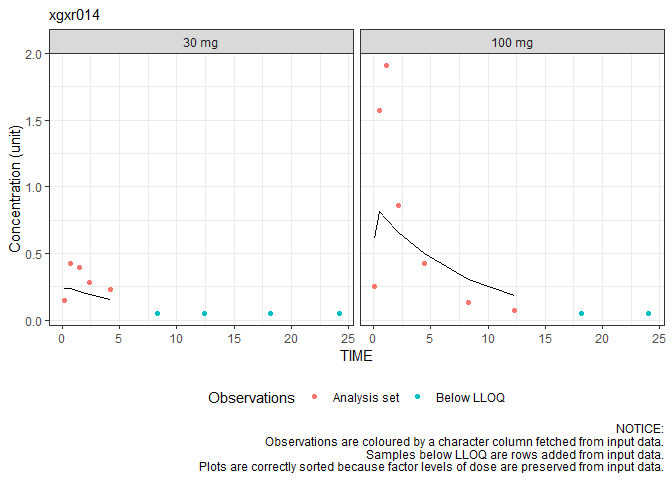
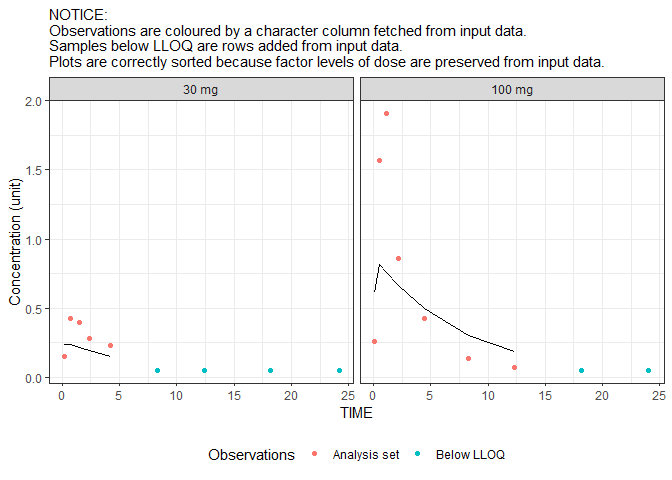
mostly spelling errors

diff --git a/vignettes/NMdata-cheat.html b/vignettes/NMdata-cheat.html
@@ -394,11 +394,11 @@ pre code {
[1 lines of base64/hex data omitted]
 <div class="column-container" style="display: flex;">
 <div class="column-container__column">
-<p>Built 2022-04-09 using NMdata 0.0.11.907.</p>
+<p>Built 2022-04-09 using NMdata 0.0.11.908.</p>
 <p>Please make sure to see latest version available <a href="https://philipdelff.github.io/NMdata/">here</a>.</p>
 <p>This cheat sheet is intented to provide an overview and remind of
 command names. Please refer to other vignettes for more details on
-specefic topics and individual manual pages for details on the
+specific topics and individual manual pages for details on the
 functions.</p>
 <p>The order of the contents loosely follows a workflow example (except
 for the configuration part). The steps can be applied in any order and
@@ -493,7 +493,7 @@ can be read by NONMEM are prioritized. Row identifier and standard
 column names have special priorities.</p>
 <p><code>NMcheckData</code> - Extensive data checks for NONMEM
 compatibility and common issues. Should be run before saving data but
-see the “Debuging…” section for example on output.</p>
+see the “Debugging…” section for example on output.</p>
 </div>
 </div>
 <div class="column-container__column">
@@ -554,7 +554,7 @@ names(res.debug)
 ## Meta data on input data file:
 res.debug$tables
 #&gt;    source       name nrow ncol nid filetype          file.mtime
-#&gt; 1:  input pkdata.csv 1502   23 150     text 2022-04-09 17:16:39
+#&gt; 1:  input pkdata.csv 1502   23 150     text 2022-04-09 20:14:26
 #&gt;                            file has.col.row has.col.id
 #&gt; 1: nonmem/../derived/pkdata.csv        TRUE       TRUE</code></pre>
 <p>In this model we forgot to update the control stream INPUT section
@@ -684,7 +684,7 @@ a complete list of data columns and their origin.</p>
 #&gt; [1] &quot;NMdata-cheat.Rmd&quot;
 #&gt; 
 #&gt; $CreationTime
-#&gt; [1] &quot;2022-04-09 17:16:39 EDT&quot;
+#&gt; [1] &quot;2022-04-09 20:14:26 EDT&quot;
 #&gt; 
 #&gt; $writtenTo
 #&gt; [1] &quot;derived/pkdata.rds&quot;

diff --git a/NEWS.md b/NEWS.md
@@ -122,7 +122,7 @@
 
 * flagsAssign has got a few updates related to separate handling of
   different types of events. Often, this will be used to assign flags
-  to observations, doses etc. separately. You can easily speficy a
+  to observations, doses etc. separately. You can easily specify a
   subset of data to run flagsAssign on, and it will by default check
   for whether values of EVID are unique. This is similar to what
   flagsCount does.
@@ -167,7 +167,7 @@ that tests pass after the release of data.table v1.14.2.
   write meta data. Meta data is stored as an attribute to the data
   object (attributes(data)$NMdata).
 
-* Translation table includes a column ranking the match betwen input
+* Translation table includes a column ranking the match between input
   data file contents and $INPUT. OK: names match, diff: names do not
   match, off: diff and name is found elsewhere.
 
@@ -301,7 +301,7 @@ number of columns added to df1 against expectation.
 
 egdt is a new function for expanding grids of data.tables. This is
 quite technical, and it fills a whole when constructing data with
-data.tables. It mimicks the behavior of merge.data.frame on objects
+data.tables. It mimics the behavior of merge.data.frame on objects
 with no common columns.
 
 ## Bugfixes related to 
@@ -320,7 +320,7 @@ names.
 
 The exclusion flag functions flagsAssign and flagsCount have been
 generalized to use customizable column names for the numerical and
-caracter flags. The default can be configured using NMdataConf.
+character flags. The default can be configured using NMdataConf.
 
 # NMdata 0.0.6.4
 If all common column names two data objects to merge are not used for
@@ -337,7 +337,7 @@ Meta information added about the input data.
 
 # NMdata 0.0.6.2
 A summary function is provided for NMdata objects. There is a print
-function for the summary too. This is printet automatically by NMdata
+function for the summary too. This is printed automatically by NMdata
 unless quiet=TRUE.
 
 A lot of meta information has been added in an attribute to NMdata
@@ -399,7 +399,7 @@ now treated like FIRSTONLY while FIRSTLASTONLY tables are disregarded
 The most obvious change since 0.0.3 is that only one data.table is
 being returned from NMscanData. This is what used to be the `row`
 element in the returned objects previously. The main reason for this
-change is that it makes it easier for users to postprocess only one
+change is that it makes it easier for users to post-process only one
 dataset before splitting into different levels of variability. The
 small cost is that the user will have to run findCovs, or findVars to
 get the desired level of variability. These functions are however very

diff --git a/README.md b/README.md
@@ -114,8 +114,8 @@ ggplot(res.plot,aes(TIME))+
     geom_point(aes(y=DV,colour=flag))+
     geom_line(aes(y=PRED))+
     facet_wrap(~trtact)+
-    labs(y="Concentration (unit)",subtitle=unique(res.plot$model),colour="Observations",
-         caption="NOTICE:\nObservations are coloured by a character column fetched from input data.\nSamples below LLOQ are rows added from input data.\nPlots are correctly sorted because factor levels of dose are preserved from input data.")+
+    labs(y="Concentration (unit)",colour="Observations",
+         subtitle="NOTICE:\nObservations are coloured by a character column fetched from input data.\nSamples below LLOQ are rows added from input data.\nPlots are correctly sorted because factor levels of dose are preserved from input data.")+
     theme_bw()+theme(legend.position="bottom")
 #> Warning: Removed 2 row(s) containing missing values (geom_path).
 ```
